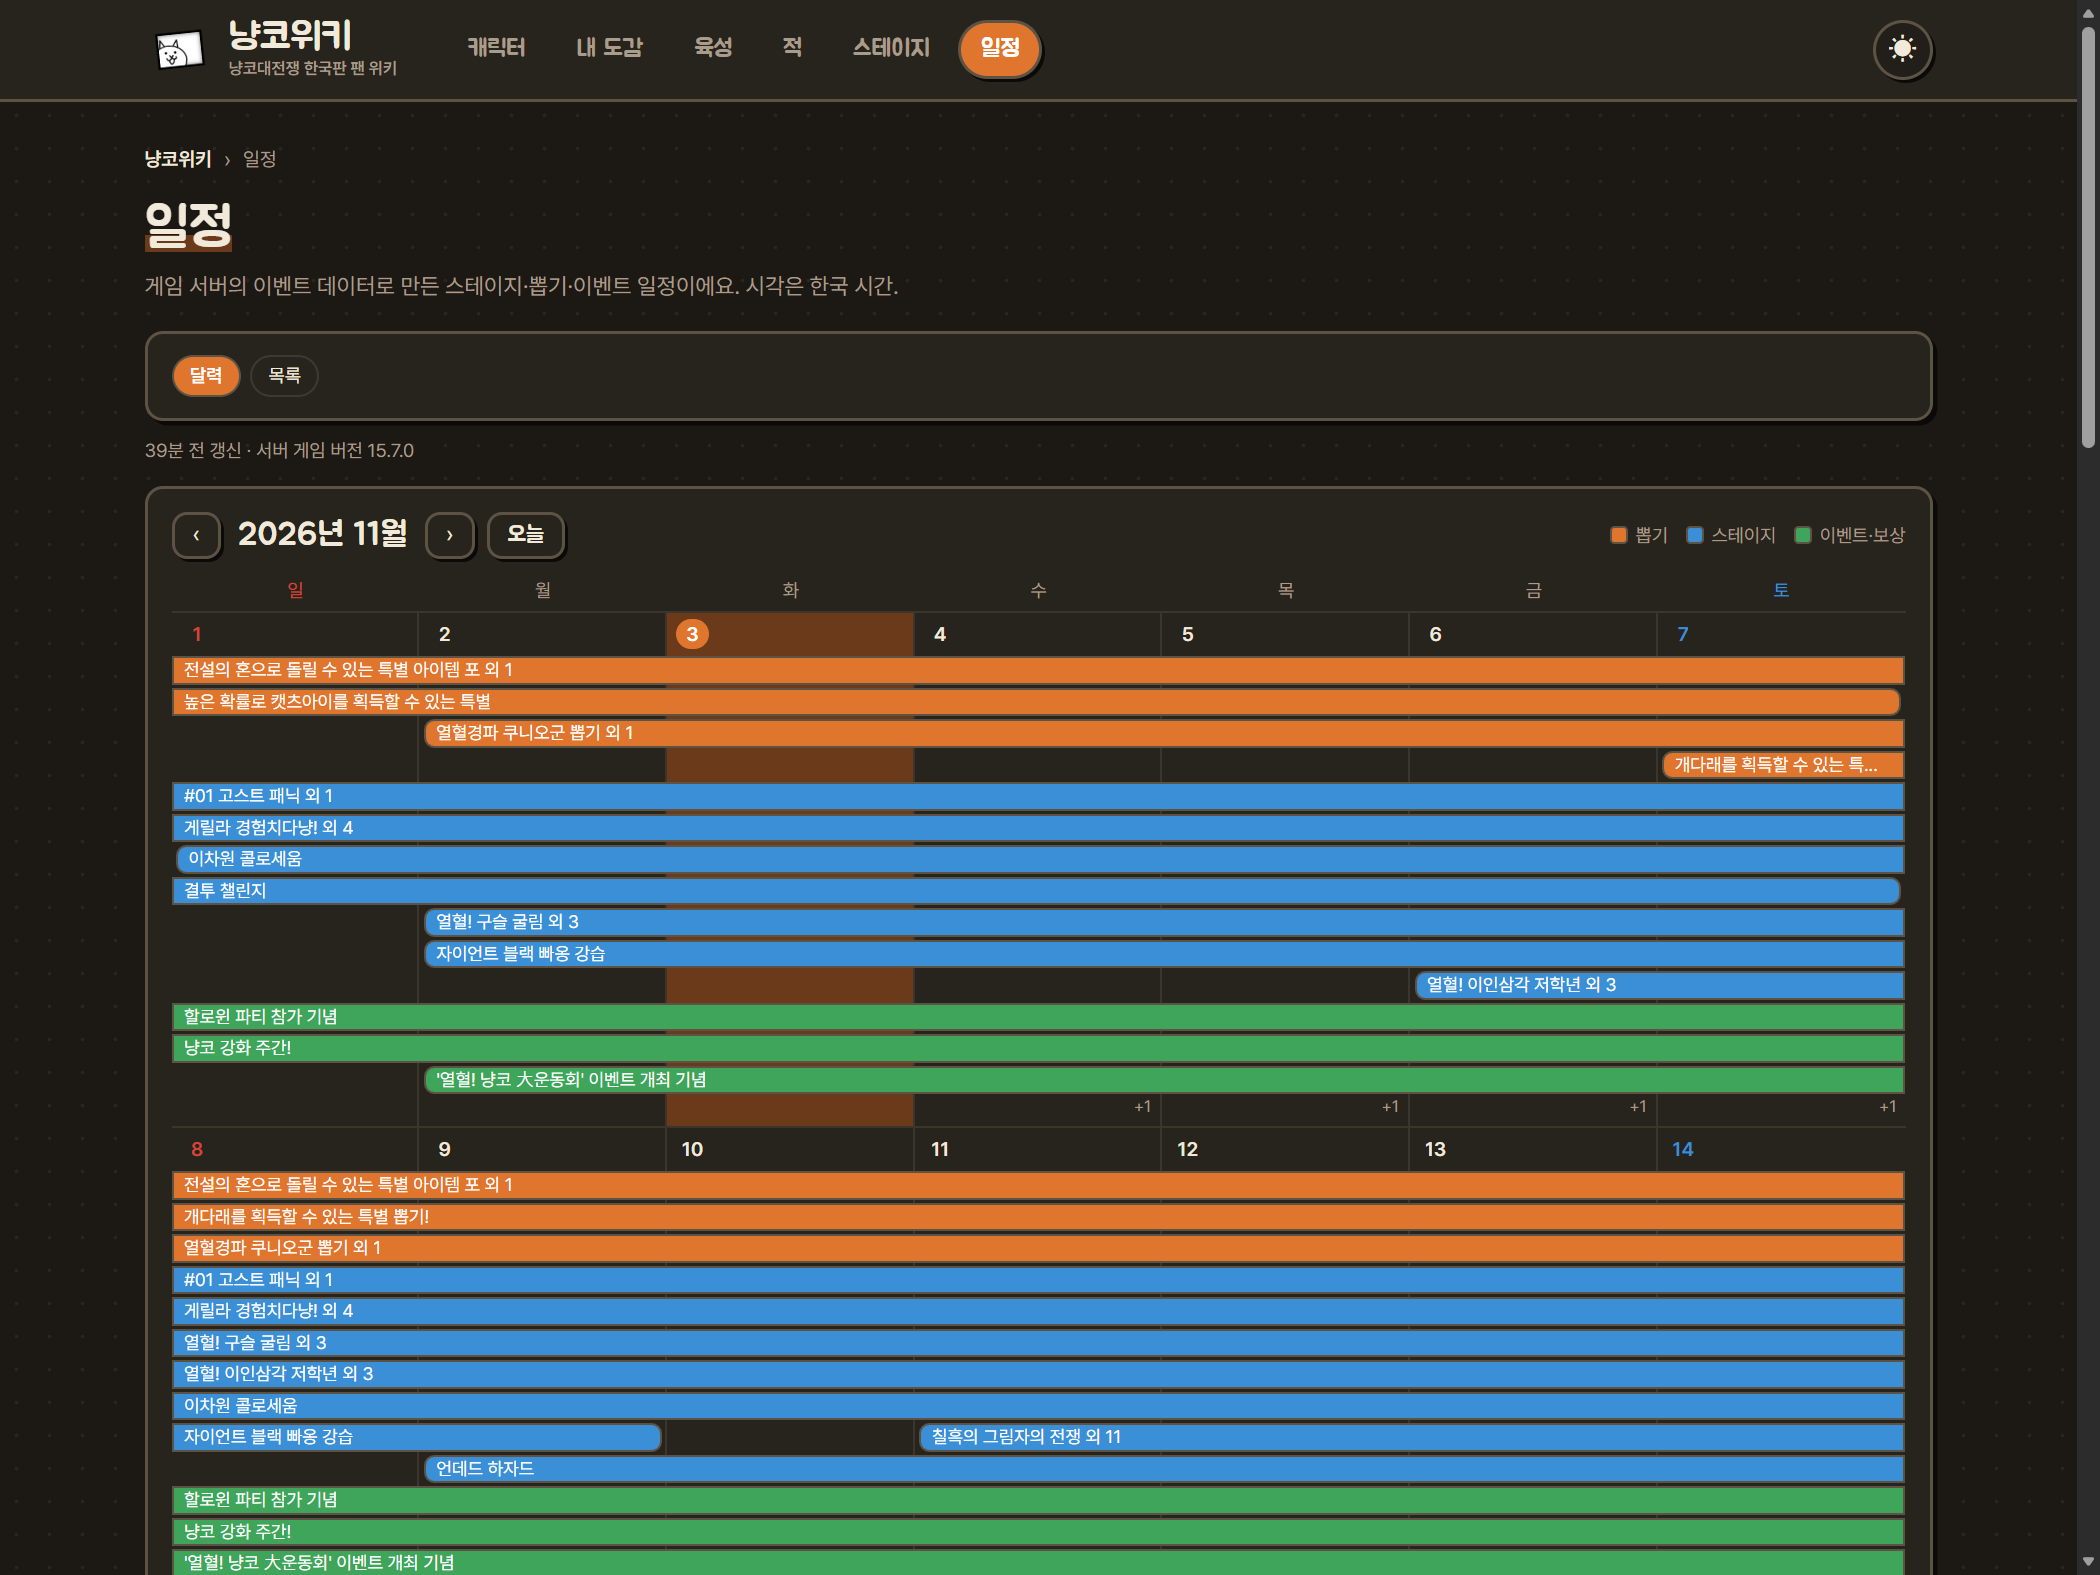
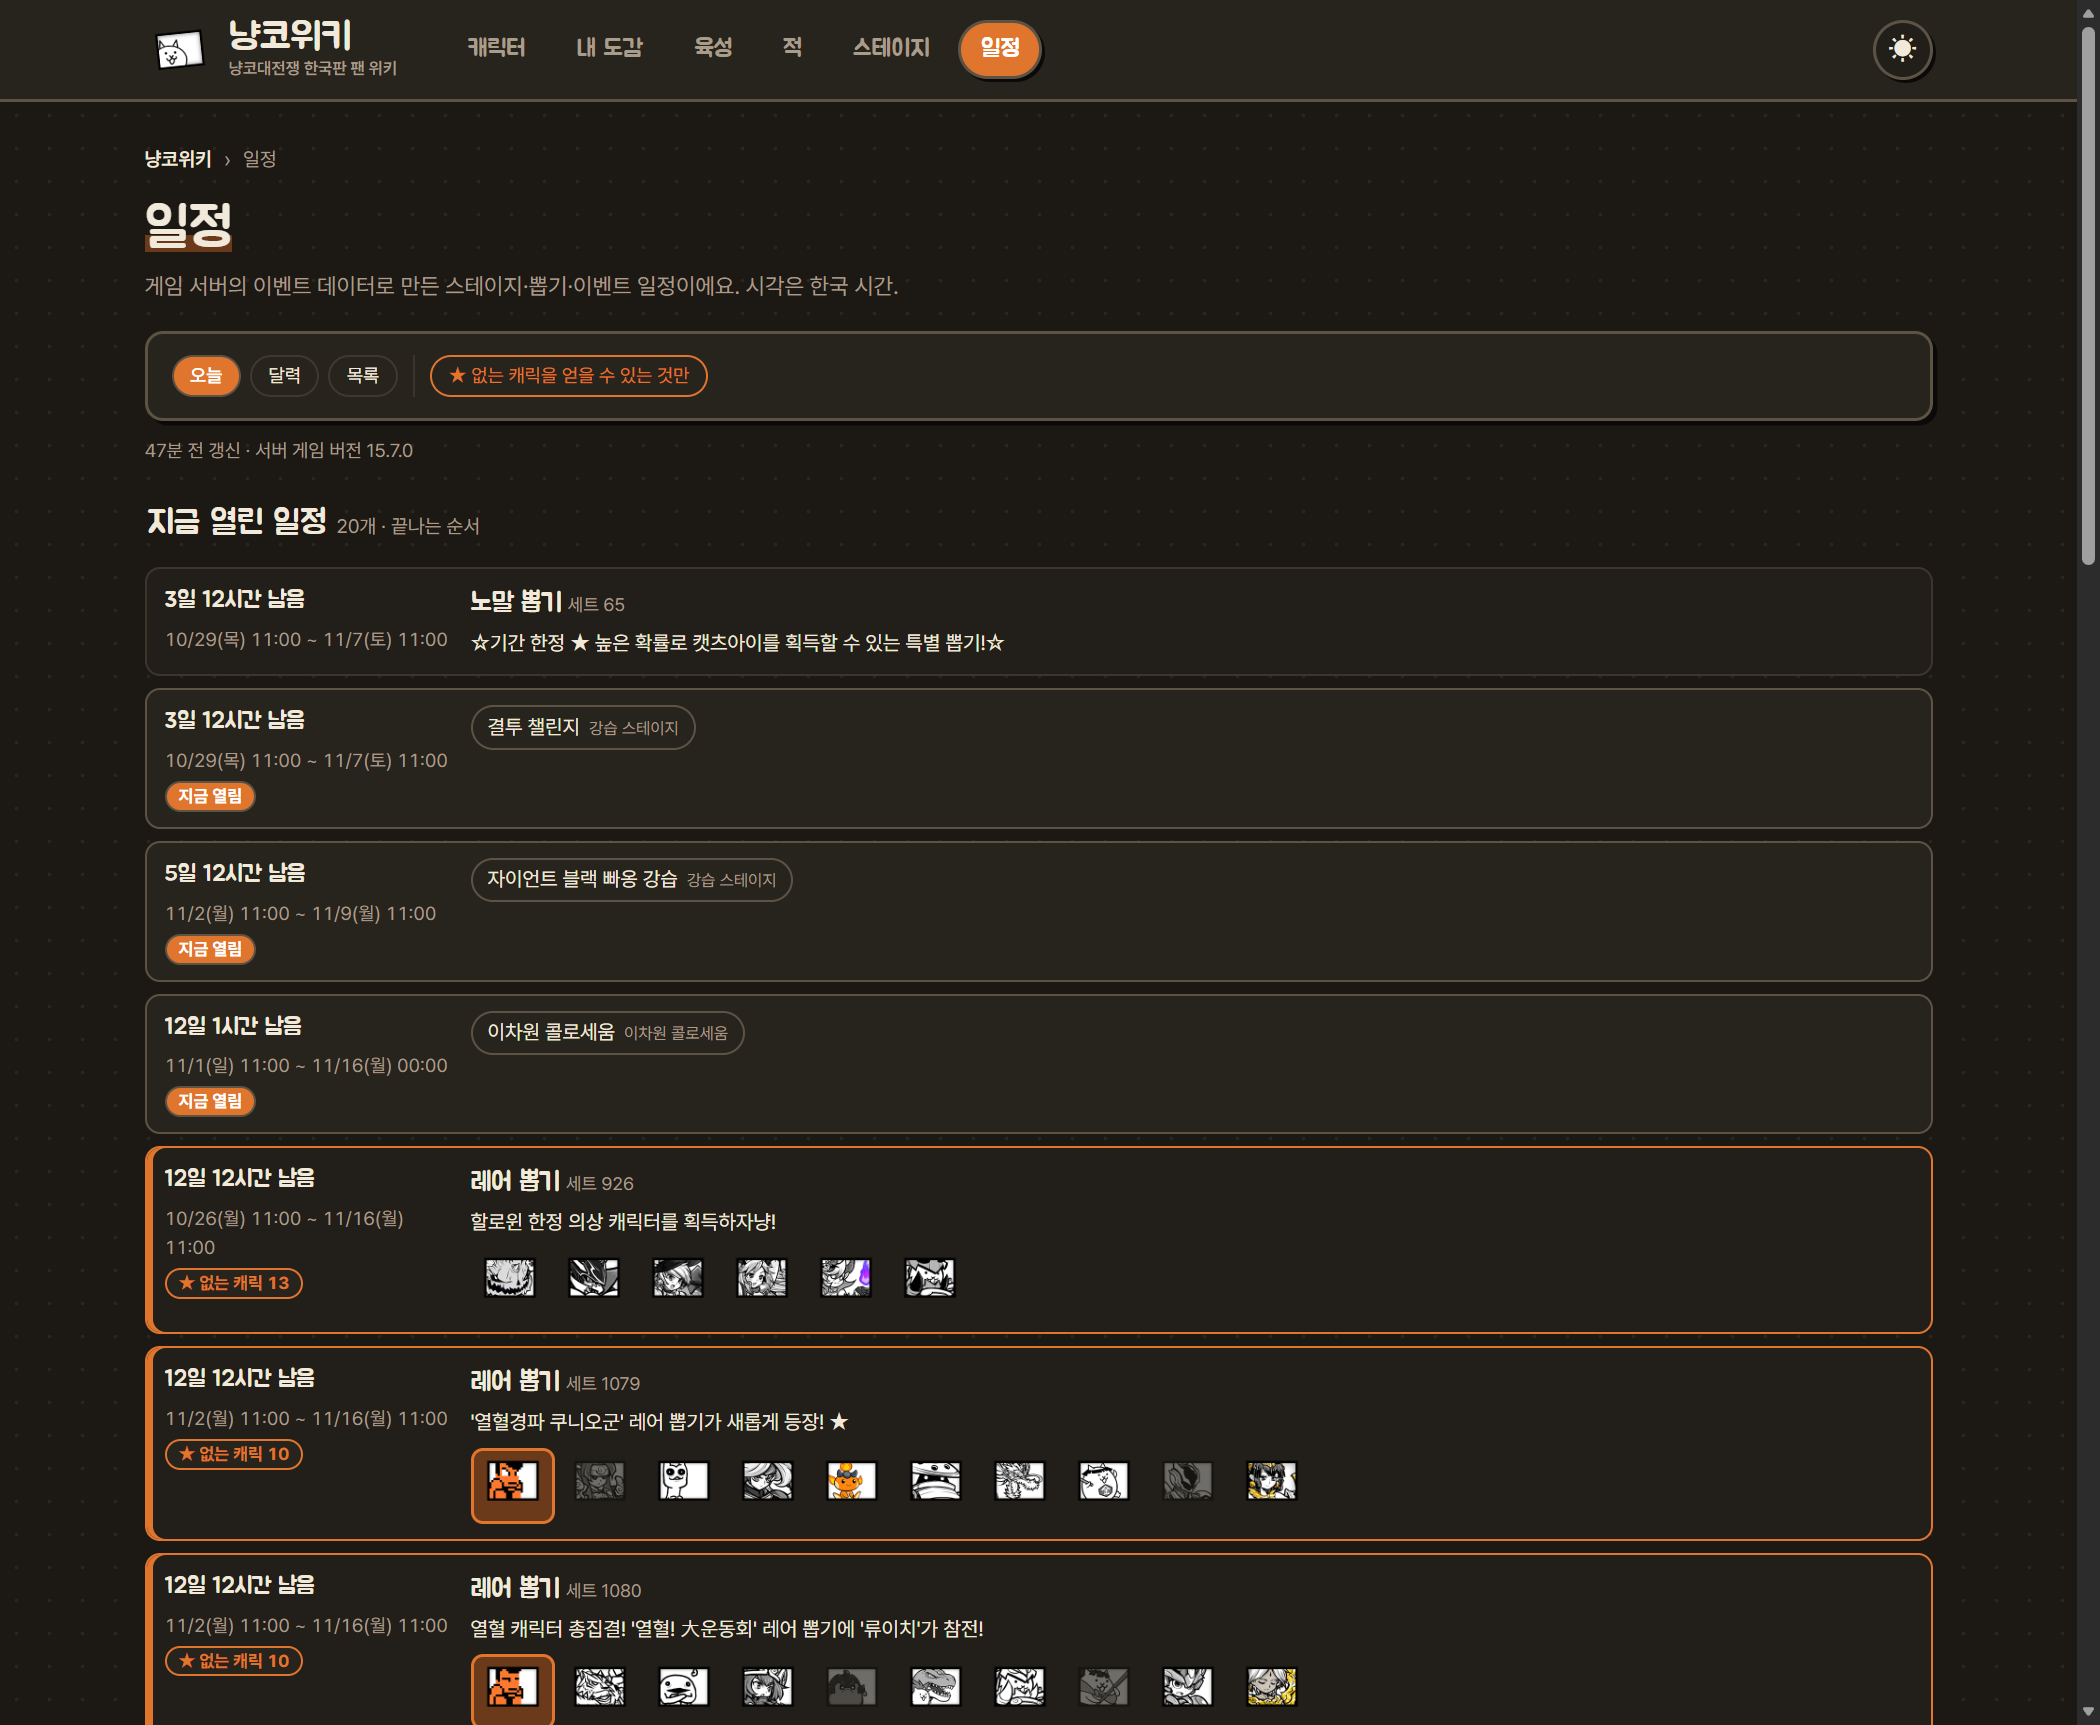
일정: 오늘 화면(남은 시간·오늘 시간표·곧 시작), 없는 캐릭을 얻을 수 있는 일정 표시·필터

diff --git a/docs/css/style.css b/docs/css/style.css
@@ -541,5 +541,33 @@ fieldset:disabled{opacity:.45}
 .k-gatya{background:var(--accent)}.k-stage{background:var(--r1)}.k-item{background:var(--r2)}
 .sc-dayhead{font-family:var(--display);font-weight:400;font-size:22px;margin:22px 2px 12px;scroll-margin-top:80px}
 .sc-dayhead small{font-family:"Pretendard Variable",Pretendard,system-ui,sans-serif;font-size:13px;color:var(--muted)}
+.sc-hint{margin:0 2px 14px;font-size:13px;color:var(--muted)}
+.sc-newchip[aria-pressed="false"]{border-color:var(--accent);color:var(--accent)}
+.sc-newbadge{font-size:11.5px;font-weight:700;color:var(--accent);border:1.5px solid var(--accent);border-radius:999px;padding:0 8px;background:var(--panel)}
+.sc-item.has-new{border-color:var(--accent);box-shadow:inset 4px 0 0 var(--accent)}
+.sc-cats a.have{opacity:.35;filter:grayscale(1)}
+.sc-cats a.have:hover{opacity:1;filter:none}
+.sc-newcats{margin-top:8px}
+.sc-newcats small{font-size:12px;color:var(--accent);font-weight:700;margin-right:4px}
+.sc-left{font-size:15px;font-weight:700;color:var(--ink);font-family:var(--display);font-weight:400}
+.sc-left.soon{color:#d0463c}
+.sc-slot{font-size:12px;border-radius:999px;padding:0 8px;border:1.5px solid var(--line);color:var(--muted)}
+.sc-slot.on{background:var(--r2);border-color:var(--edge);color:#fff;font-weight:700}
+.sc-slot.off{opacity:.7}
+.sc-tt{display:flex;flex-direction:column;gap:5px}
+.sc-tt-axis,.sc-tt-row{display:grid;grid-template-columns:minmax(110px,190px) 1fr;gap:10px;align-items:center}
+.sc-tt-axis div{position:relative;height:16px;font-size:11px;color:var(--muted)}
+.sc-tt-axis i{position:absolute;font-style:normal;transform:translateX(-2px)}
+.sc-tt-row>a{font-size:13px;color:var(--ink);text-decoration:none;white-space:nowrap;overflow:hidden;text-overflow:ellipsis}
+.sc-tt-row>a[href]:hover{color:var(--accent)}
+.sc-tt-track{position:relative;height:20px;border-radius:6px;background:repeating-linear-gradient(90deg,var(--panel2) 0 calc(12.5% - 1px),var(--line) calc(12.5% - 1px) 12.5%);border:1.5px solid var(--line)}
+.sc-tt-track b{position:absolute;top:2px;bottom:2px;border-radius:4px;background:var(--r1);border:1.5px solid var(--edge)}
+.sc-tt-track b.on{background:var(--r2)}
+.sc-tt-track b.past{opacity:.35}
+.sc-tt details{display:flex;flex-direction:column;gap:5px}
+.sc-tt details>.sc-tt-row{margin-top:5px}
+.sc-tt summary{cursor:pointer;font-size:12.5px;color:var(--muted);margin-top:4px}
+.sc-tt-track u{position:absolute;top:-4px;bottom:-4px;width:2px;background:#d0463c;text-decoration:none}
+@media (max-width:640px){.sc-tt-axis,.sc-tt-row{grid-template-columns:88px 1fr;gap:6px}.sc-tt-row>a{font-size:11.5px}}
 @media (max-width:640px){.sc-cal{padding:10px 6px}.sc-bar{font-size:10.5px;padding:0 3px;margin:2px 1px}.sc-day{padding:3px}.sc-legend{margin-left:0;width:100%}}
 @media (max-width:640px){.sc-item{grid-template-columns:1fr}.sc-when{flex-direction:row;flex-wrap:wrap;align-items:center}}

diff --git a/README.md b/README.md
@@ -84,12 +84,12 @@
 
 ### 📅 일정 (v5.0)
 
-<img src="images/v5.0-schedule.png" alt="일정 — 뽑기·스테이지·이벤트 기간을 막대로 보여주는 달력" width="860">
+<img src="images/v5.0-schedule.png" alt="일정 — 오늘 열린 일정과 남은 시간, 없는 캐릭을 얻을 수 있는 뽑기 표시" width="860">
 
-- **달력**: 게임 서버의 이벤트 데이터를 매시간 받아서, 기간 한정 뽑기(주황)·스테이지(파랑)·이벤트(초록)를 달력에 막대로 그립니다. 날짜나 막대를 누르면 그날 열리는 일정이 아래에 나옵니다.
-- **목록**: 지금 진행 중 / 예정 / 전부, 상시 이벤트 포함 여부를 골라서 볼 수 있습니다.
-- **뽑기**: 기간, 배너 문구, 대표 캐릭과 울트라슈퍼레어·레전드레어 캐릭
-- **스테이지**: 맵 링크와 요일·시간 조건(게릴라 경험치 등), 지금 열려 있으면 "지금 열림" 표시
+- **오늘**: 지금 열린 기간 한정 일정을 끝나는 순서로, "3일 12시간 남음"처럼 남은 시간과 함께 보여줍니다. 게릴라 경험치처럼 시간이 정해진 스테이지는 **오늘 시간표**(24시간 막대)로, 7일 안에 시작하는 일정은 **곧 시작**으로 모았습니다.
+- **★ 없는 캐릭**: 내 도감을 불러왔으면, 내가 아직 없는 캐릭을 얻을 수 있는 뽑기·스테이지(드롭)에 ★ 표시가 붙고, 그것만 골라볼 수 있습니다. 뽑기 캐릭 중 이미 가진 캐릭은 흐리게 보입니다.
+- **달력**: 기간 한정 뽑기(주황)·스테이지(파랑)·이벤트(초록)를 달력에 막대로 그립니다. 날짜나 막대를 누르면 그날 열리는 일정이 나옵니다.
+- **목록**: 진행 중 / 예정 / 전부, 상시 이벤트 포함 여부를 골라서 볼 수 있습니다. 뽑기는 배너 문구와 대표 캐릭·울트라슈퍼레어 이상 캐릭, 스테이지는 맵 링크와 요일·시간 조건을 보여줍니다.
 - 일정은 일정 읽기 전용으로 만든 별도 계정으로 받습니다. 사용자 계정은 쓰지 않습니다.
 
 ## 사용법
